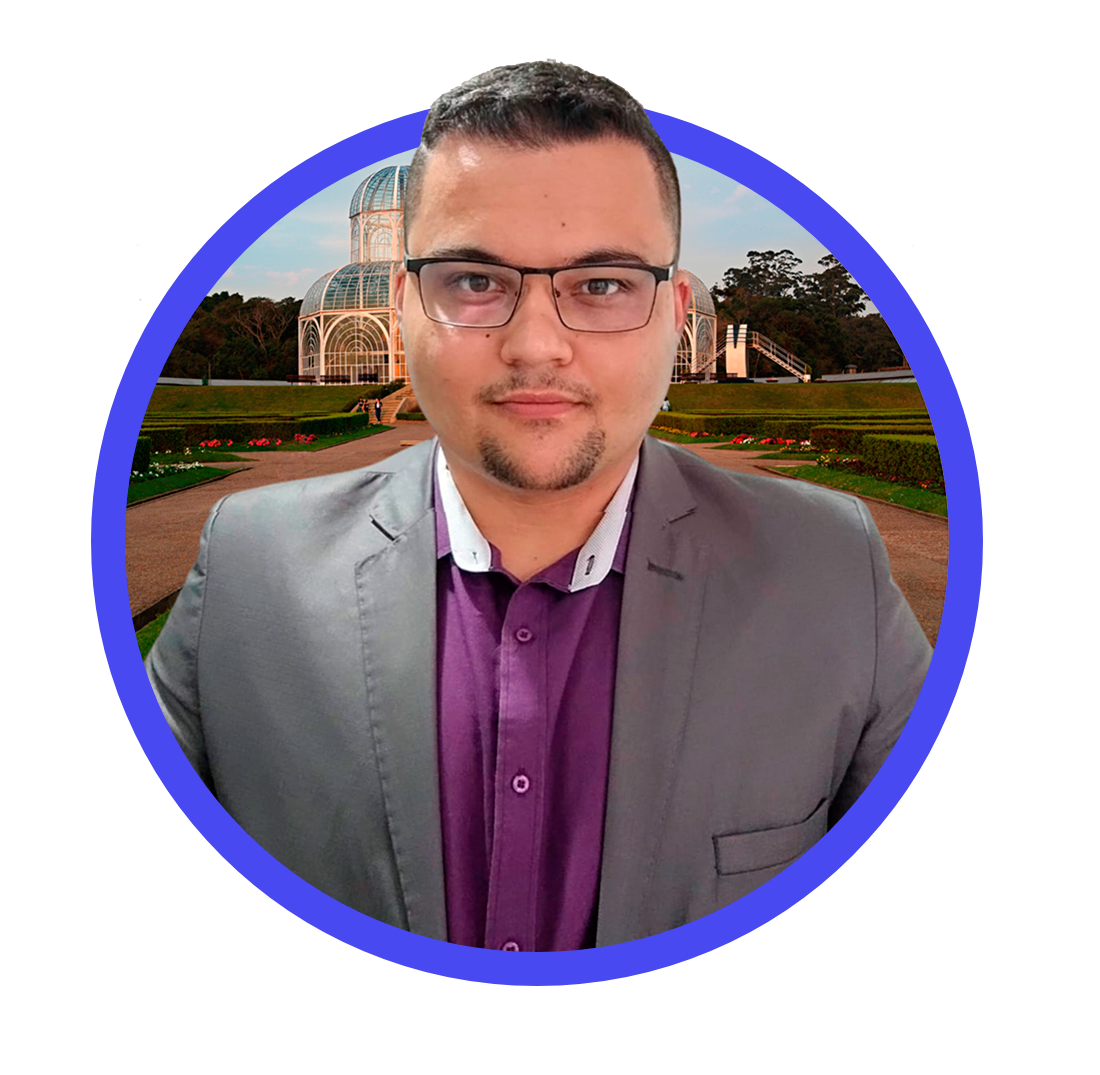
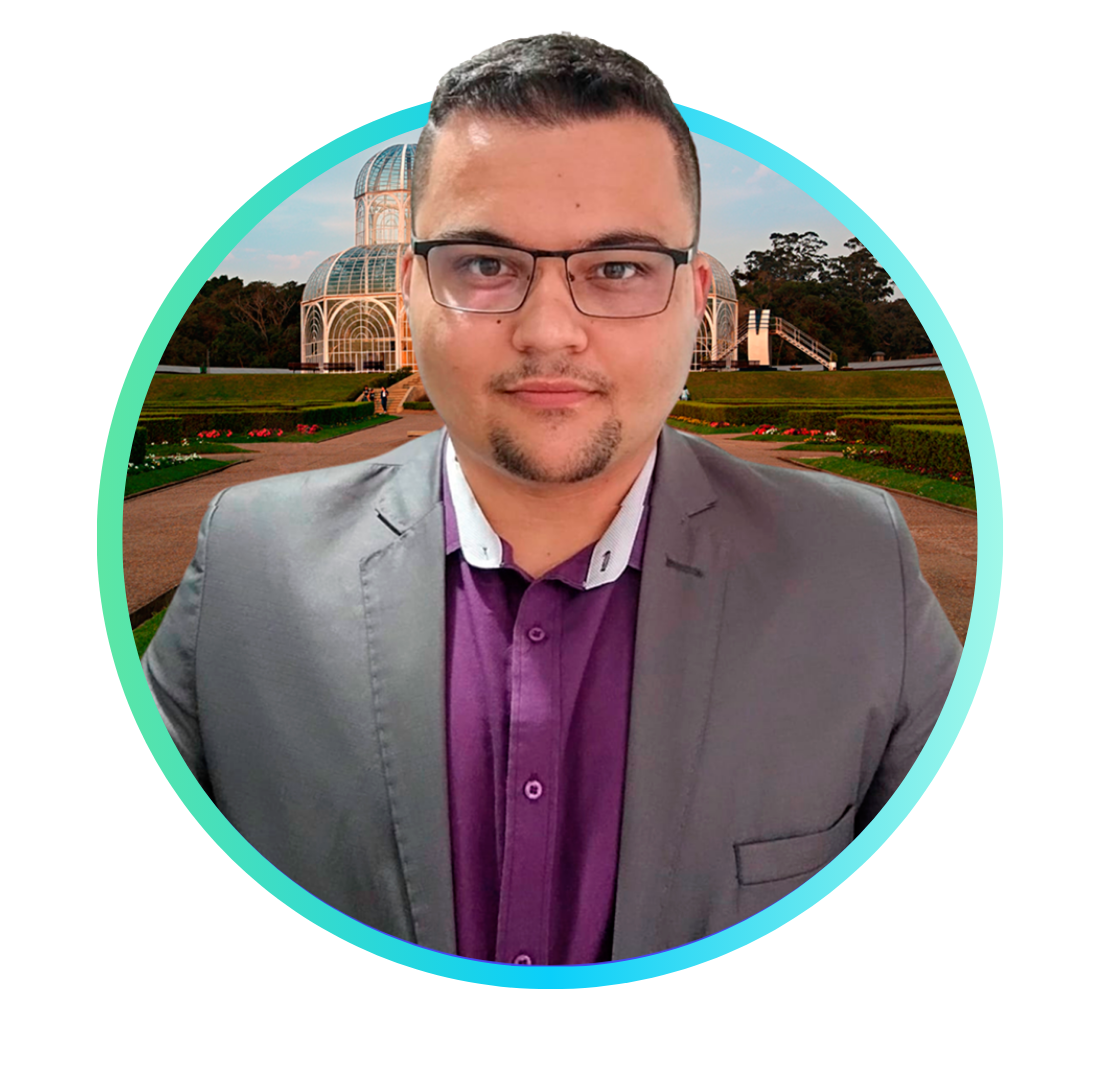
Atualização de imagens

Changed region(s): [[0.0618, 0.0307, 0.9273, 0.9209], [0.3091, 0.5219, 0.34, 0.5526]]

diff --git a/index.html b/index.html
@@ -164,7 +164,7 @@
           <article class="profile-card card">
             <img
               class="avatar"
-              src="assets/images/alysson-imagem1.png"
+              src="assets/images/alysson-imagem1.PNG"
               alt="Retrato de Alysson Arcas"
             >
 
